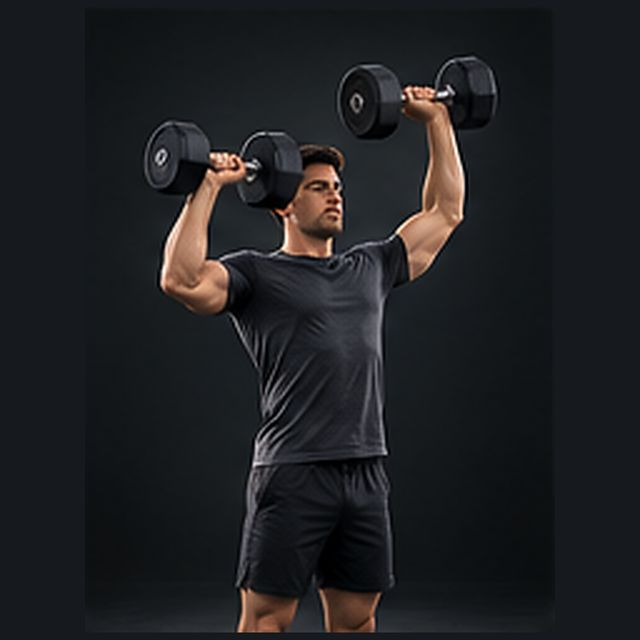
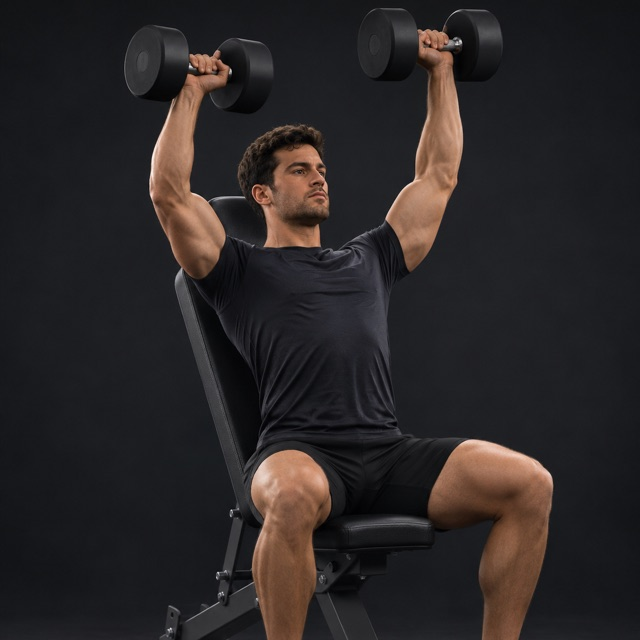
Type today's weight in the workout card; new seated DB shoulder press photo (#12)
The weight card number is now an input (any value, e.g. 87.5) while the
−/+ buttons keep stepping by the lift's increment.

Changed region(s): [[0.1875, 0.0, 0.875, 1.0]]

diff --git a/workout.js b/workout.js
@@ -340,7 +340,7 @@ function focusView(){
     <div class="wcard" style="display:flex;align-items:center;gap:10px"><div class="grow"><div class="meta">Last time</div><b style="font-size:20px">${last?`${last.w} × ${last.reps.map(r=>r==null?'–':r).join('/')}`:'No history yet'}</b></div>
       <span class="wtrend ${tr.c}">${tr.i}${tr.t}</span></div>
     ${restBanner()}
-    <div class="wcard" style="display:flex;align-items:center;gap:10px"><div class="grow"><div class="meta">Today's weight</div><div><b class="wbig">${w}</b><span class="whru" style="font-size:20px">lb</span></div>${plate?`<div class="meta">${plate}</div>`:''}</div>
+    <div class="wcard" style="display:flex;align-items:center;gap:10px"><div class="grow"><div class="meta">Today's weight</div><div><input class="wbig wedit" id="wIn" type="text" inputmode="decimal" autocomplete="off" aria-label="Today's weight, tap to type" value="${w}" style="width:${Math.max(2,String(w).length)+.05}ch"><span class="whru" style="font-size:20px">lb</span></div>${plate?`<div class="meta">${plate}</div>`:''}</div>
       <button class="wpm" data-wo="w" data-i="-1" aria-label="Less weight">${WIC.minus}</button><button class="wpm v" data-wo="w" data-i="1" aria-label="More weight">${WIC.plus}</button></div>
     ${warm.map((s,i)=>`<div class="wset ${s.done?'done':'todo'}" style="border-style:dashed"><button class="wck ${s.done?'':'off'}" data-wo="wu" data-i="${i}" aria-label="Warm-up set done">${s.done?I.check:''}</button><div class="grow"><div class="name">Warm-up ${i+1}</div><div class="meta">${s.w} lb × ${s.r}${ex.bar?' · '+plateTxt(ex,s.w):''}</div></div><button class="link" data-wo="wudel" data-i="${i}" style="padding:4px">Remove</button></div>`).join('')}
     ${[...Array(n).keys()].map(setRow).join('')}
@@ -414,6 +414,15 @@ setInterval(()=>{
 },1000);
 document.addEventListener('visibilitychange',()=>{ if(!document.hidden&&DB.live){lockScreen(true);render()} });
 
+/* Type today's weight (any value, e.g. 87.5); the − / + buttons keep stepping by the lift's increment. */
+document.addEventListener('input',e=>{ if(e.target.id==='wIn')e.target.style.width=Math.max(2,e.target.value.length)+.05+'ch' });
+document.addEventListener('change',e=>{
+  if(e.target.id!=='wIn'||!DB.active)return;
+  const A=DB.active,v=parseFloat(String(e.target.value).replace(',','.'));
+  if(!(v>=0)||v>2000){render();toast('Type a weight in lb');return}
+  const L=liftList(),orig=L[curIdx()],ex=shownEx(orig);const p=progOf(orig)||{w:A.lowEnergy?loEnergyW(ex,wOf(ex)):wOf(ex),reps:[]};
+  p.w=Math.round(v*100)/100;A.prog[ex.id]=p;if(A.entries[ex.id])A.entries[ex.id].w=p.w;save();render();
+});
 document.addEventListener('click',e=>{
   if(e.target.closest('#sheet')||e.target.closest('#tabs'))return;
   const b=e.target.closest('button'); if(!b)return;

diff --git a/index.html b/index.html
@@ -13,7 +13,7 @@
 <link rel="icon" href="icons/icon-192.png?v=1">
 <link rel="manifest" href="manifest.json">
 <link rel="stylesheet" href="fonts.css">
-<link rel="stylesheet" href="style.css?v=3">
+<link rel="stylesheet" href="style.css?v=5">
 </head>
 <body>
 <div id="app"></div>
@@ -23,8 +23,8 @@
 <div id="toast" role="status" aria-live="polite"></div>
 <input type="file" id="file" accept="application/json,.json" hidden>
 <script src="core.js?v=2"></script>
-<script src="app.js?v=6"></script>
-<script src="workout.js?v=2"></script>
+<script src="app.js?v=7"></script>
+<script src="workout.js?v=4"></script>
 <script src="sensors.demo.js?v=1"></script>
 </body>
 </html>

diff --git a/style.css b/style.css
@@ -253,3 +253,6 @@ h1{margin:6px 0 4px;font-size:34px;font-weight:800;letter-spacing:-.02em;line-he
 .wlog{height:44px;padding:0 16px;border-radius:14px;border:0;background:var(--violet);color:#0E1018;font-weight:800}
 .wo .btn svg{width:18px;height:18px}
 .wtile .wic svg{width:32px;height:32px}
+
+.wedit{background:none;border:0;border-bottom:2px dashed rgba(255,255,255,.2);border-radius:0;color:inherit;font-family:inherit;letter-spacing:inherit;line-height:1;padding:0;margin:0;outline:0;min-width:0;box-sizing:content-box}
+.wedit:focus{border-bottom-color:var(--violet)}
